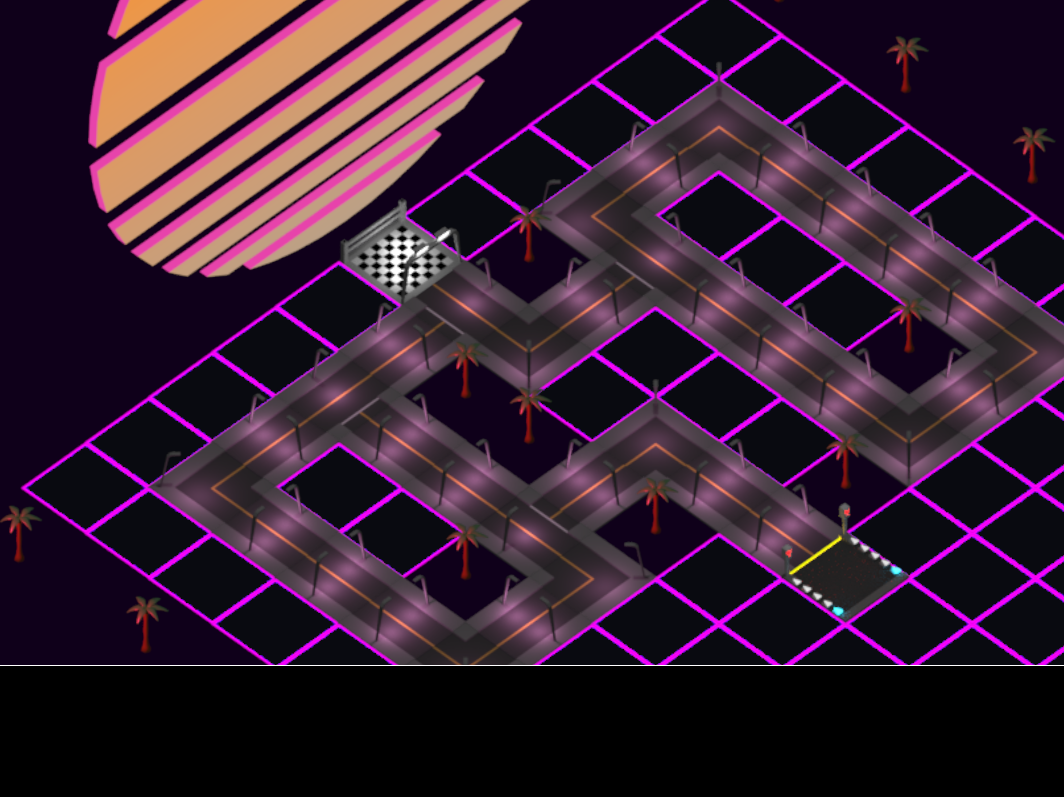
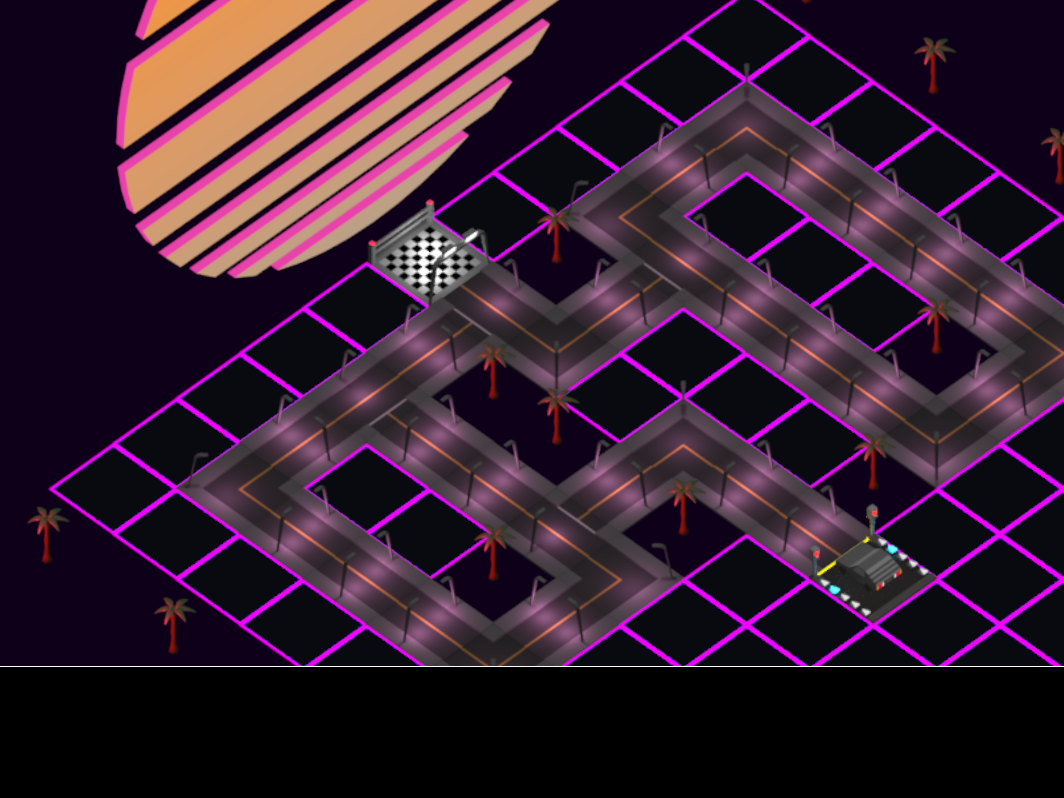
render the delorean \o/

diff --git a/retro-maze/src/main.rs b/retro-maze/src/main.rs
@@ -16,6 +16,8 @@ use piston_window::{
     PressEvent,
     Glyphs,
     clear,
+    image,
+    Transformed,
 };
 
 use gui::{
@@ -69,6 +71,11 @@ fn main() {
         .unwrap();
 
     let sun = load_texture_from_file(&mut window, "sun.png");
+
+    let car_forward_texture = load_texture_from_file(&mut window, "delorean_0.png");
+    let car_left_texture = load_texture_from_file(&mut window, "delorean_1.png");
+    let car_backward_texture = load_texture_from_file(&mut window, "delorean_2.png");
+    let car_right_texture = load_texture_from_file(&mut window, "delorean_3.png");
 
     let all_tiles = [
         load_texture_from_file(&mut window, "palm.png"),
@@ -274,6 +281,20 @@ fn main() {
                     &tiles,
                     origin_horizontal_position,
                     origin_vertical_position,
+                );
+
+                /* TODO: display a fixed position car for now,
+                   the car should be able to move on the map */
+
+                const CAR_HORIZONTAL_POSITION: f64 = 20.0;
+                const CAR_VERTICAL_POSITION: f64 = 380.0;
+                image(
+                    &car_forward_texture,
+                    context.transform.trans(
+                        CAR_HORIZONTAL_POSITION + origin_horizontal_position,
+                        CAR_VERTICAL_POSITION + origin_vertical_position,
+                    ),
+                    window,
                 );
 
                 display_selector(
